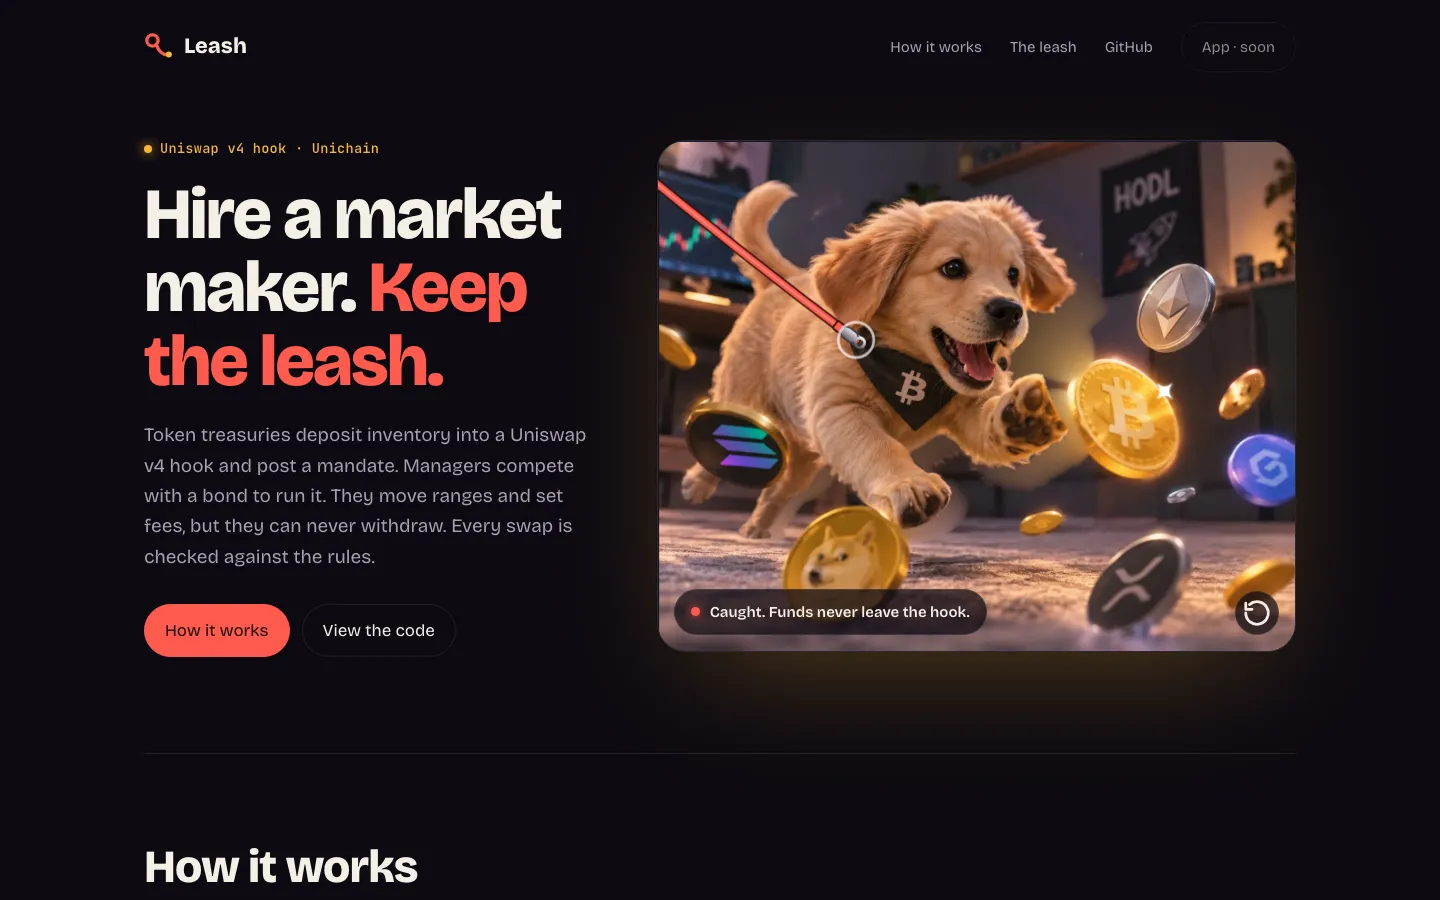
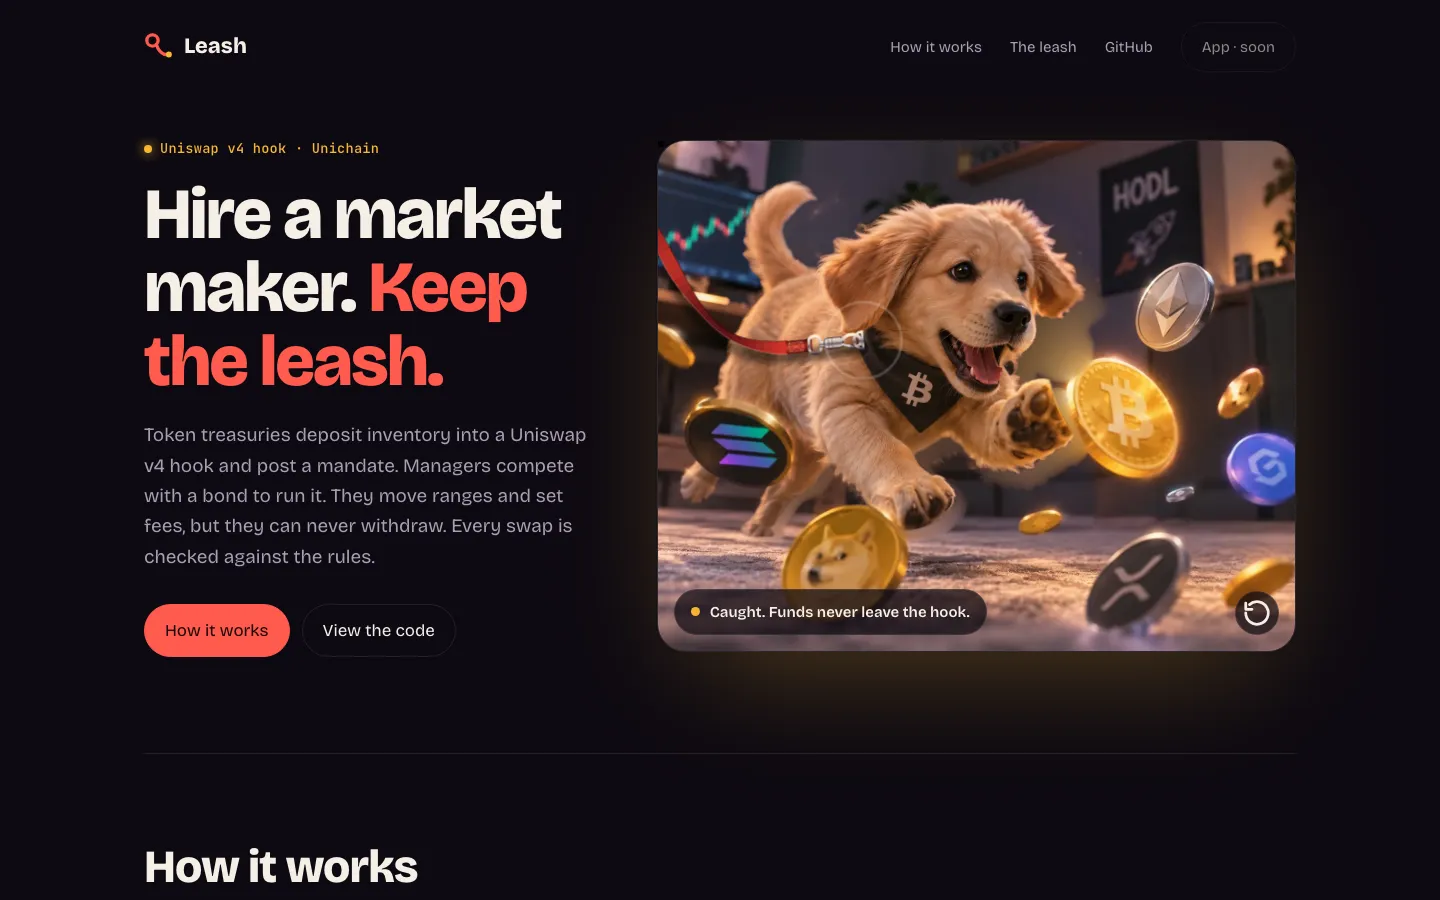
Make the hero leash physical and realistic
The leash is now a Verlet rope with fixed length, gravity and drag: it whips
on the throw, snaps taut at the lunge, then swings and hangs. Rendered as
twisting nylon webbing (narrows and darkens edge-on, lit by the room),
with a cast shadow and a bolt snap: box-X stitched strap end, swivel eye,
barrel and hook latching the bandana's D-ring. Fixed-step simulation keeps
replay and ?t= screenshots deterministic.

diff --git a/frontend/src/LeashScene.tsx b/frontend/src/LeashScene.tsx
@@ -1,18 +1,24 @@
 import { useEffect, useRef, useState } from 'react';
 import sceneUrl from './assets/scene.webp';
 import dogUrl from './assets/dog.webp';
+import { Rope, type Hold, type Point } from './rope';
 
-type Point = [number, number];
 type Pose = { r: number; x: number; y: number };
 
 // Image-space coordinates (the art is 1402×1122). Tune these if the art changes.
 const PIVOT: Point = [250, 860]; // hind feet: the dog leans around them
 const TAIL: Point = [282, 300]; // tail base
-const COLLAR: Point = [486, 448]; // where the clip lands on the bandana
-const HAND: Point = [-80, 30]; // the leash comes from off-frame, top left
+const COLLAR: Point = [486, 448]; // where the snap hook catches the bandana's D-ring
+const HAND: Point = [-80, 30]; // the leash is held off-frame, top left
 const CHASE: Pose = { r: 2.2, x: 16, y: -6 };
 const HELD: Pose = { r: -3.2, x: -16, y: 2 };
 const T = { throw: 1.4, snap: 2.2, settle: 3.6 }; // seconds
+
+// Leash build: a 30px strap (≈2.5cm at this scale) ending in a bolt snap drawn 104 units long at scale K.
+const STRAP = 30;
+const K = 1.6;
+const REACH = 104 * K; // strap end → D-ring
+const SEGS = 34; // strap links; the hardware is one more, rigid link
 
 const LINES: [at: number, text: string, held: boolean][] = [
   [0, 'A market maker chases every coin…', false],
@@ -30,6 +36,7 @@ const SPARKS: [number, number, number, number][] = [
 const clamp01 = (u: number) => Math.min(1, Math.max(0, u));
 const ease = (u: number) => (u = clamp01(u), u * u * (3 - 2 * u));
 const mix = (a: number, b: number, u: number) => a + (b - a) * u;
+const line = (ps: Point[]) => 'M' + ps.join('L');
 
 function pose(t: number): Pose {
   if (t < T.snap) { // run up and lunge at the coins
@@ -55,24 +62,88 @@ function place([px, py]: Point, p: Pose): Point {
   ];
 }
 
+// Where the leash's two ends are at time t: in the hand, then thrown, then clipped to the collar.
+function hold(t: number): Hold {
+  if (t < T.throw) return { head: HAND, tail: HAND }; // folded in the hand, off-frame
+  const collar = place(COLLAR, pose(t));
+  if (t >= T.snap) return { head: HAND, tail: collar };
+  const u = ease((t - T.throw) / (T.snap - T.throw)); // the snap hook arcs in
+  return { head: HAND, tail: [mix(HAND[0], collar[0], u), mix(HAND[1], collar[1], u) - Math.sin(Math.PI * u) * 160] };
+}
+
+// Just long enough to go taut at the peak of the lunge.
+const LENGTH = 1.02 * Math.hypot(...(place(COLLAR, CHASE).map((v, i) => v - HAND[i]) as Point));
+const LINKS = [...Array<number>(SEGS).fill((LENGTH - REACH) / SEGS), REACH];
+const folded = (): Point[] => LINKS.concat(0).map((_, i, all) => {
+  const along = (i / (all.length - 1)) * LENGTH;
+  return [HAND[0] + (along < LENGTH / 2 ? -5 : 5), HAND[1] + Math.min(along, LENGTH - along)];
+});
+
+// Nylon webbing colour for a strip whose face is turned `lit` (0 edge-on … 1 facing us) toward the light.
+function webbing(lit: number) {
+  const dark = [62, 12, 20], base = [214, 54, 42], spec = [255, 132, 110];
+  const c = dark.map((d, i) => mix(d, base[i], Math.min(lit / 0.85, 1)));
+  const s = clamp01((lit - 0.85) / 0.15) * 0.55;
+  return `rgb(${c.map((v, i) => Math.round(mix(v, spec[i], s))).join(',')})`;
+}
+
 export function LeashScene() {
   const svgRef = useRef<SVGSVGElement>(null);
   const worldRef = useRef<SVGGElement>(null);
   const dogRef = useRef<SVGGElement>(null);
   const tailRef = useRef<SVGImageElement>(null);
-  const ringRef = useRef<SVGCircleElement>(null);
   const leashRef = useRef<SVGGElement>(null);
+  const shadowRef = useRef<SVGPathElement>(null);
+  const strapRef = useRef<SVGGElement>(null);
   const clipRef = useRef<SVGGElement>(null);
+  const dogRingRef = useRef<SVGPathElement>(null);
+  const clipRingRef = useRef<SVGPathElement>(null);
   const flashRef = useRef<SVGCircleElement>(null);
   const replay = useRef(() => {});
-  const [line, setLine] = useState(0);
+  const [line_, setLine] = useState(0);
 
   // Per-frame updates write SVG attributes directly; React only re-renders when the caption changes.
   useEffect(() => {
-    const world = worldRef.current!, dog = dogRef.current!, tail = tailRef.current!, ring = ringRef.current!;
-    const leash = leashRef.current!, clip = clipRef.current!, flash = flashRef.current!;
-    const strands = leash.querySelectorAll('.strand');
+    const world = worldRef.current!, dog = dogRef.current!, tail = tailRef.current!;
+    const leash = leashRef.current!, shadow = shadowRef.current!, clip = clipRef.current!, flash = flashRef.current!;
+    const dogRing = dogRingRef.current!, clipRing = clipRingRef.current!;
+    const [base, quads, weaveA, weaveB, sheen, rim] = strapRef.current!.children as unknown as [
+      SVGPathElement, SVGGElement, SVGPathElement, SVGPathElement, SVGPathElement, SVGPathElement,
+    ];
+    const rope = new Rope(LINKS, folded);
     let shown = -1;
+
+    function drawLeash(t: number) {
+      const pts = rope.pts, strap = pts.slice(0, -1), n = strap.length;
+      const left: Point[] = [], right: Point[] = [], inA: Point[] = [], inB: Point[] = [], lit: number[] = [];
+      for (let i = 0; i < n; i++) {
+        const a = strap[Math.max(0, i - 1)], b = strap[Math.min(n - 1, i + 1)], p = strap[i];
+        const len = Math.hypot(b[0] - a[0], b[1] - a[1]) || 1;
+        const nx = -(b[1] - a[1]) / len, ny = (b[0] - a[0]) / len;
+        // One slow twist along the strap: edge-on it narrows and darkens, like real webbing.
+        const face = Math.cos(1.35 * Math.sin(Math.PI * 1.7 * (i / (n - 1)) + 0.6 + 0.35 * Math.sin(t * 0.9)));
+        const half = (STRAP / 2) * (0.22 + 0.78 * Math.abs(face));
+        const at = (o: number): Point => [p[0] + nx * half * o, p[1] + ny * half * o];
+        left.push(at(1)); right.push(at(-1)); inA.push(at(0.45)); inB.push(at(-0.45));
+        // The room is dim by the monitor (left) and warm toward the dog: light the strap to match.
+        const room = 0.68 + 0.32 * clamp01((p[0] + 80) / 650);
+        lit.push(Math.abs(face) * (face < 0 ? 0.85 : 1) * room);
+      }
+      Array.from(quads.children).forEach((q, i) => {
+        q.setAttribute('d', `M${left[i]}L${left[i + 1]}L${right[i + 1]}L${right[i]}Z`);
+        q.setAttribute('fill', webbing((lit[i] + lit[i + 1]) / 2));
+      });
+      base.setAttribute('d', line(strap));
+      weaveA.setAttribute('d', line(inA));
+      weaveB.setAttribute('d', line(inB));
+      sheen.setAttribute('d', line(left));
+      rim.setAttribute('d', line(right));
+      shadow.setAttribute('d', line(pts));
+
+      const [s0, s1] = [pts[pts.length - 2], pts[pts.length - 1]];
+      const angle = (Math.atan2(s1[1] - s0[1], s1[0] - s0[0]) * 180) / Math.PI;
+      clip.setAttribute('transform', `translate(${s0}) rotate(${angle})`);
+    }
 
     function render(t: number) {
       const p = pose(t);
@@ -80,26 +151,14 @@ export function LeashScene() {
       const fast = t < T.snap;
       tail.setAttribute('transform', `rotate(${Math.sin(t * (fast ? 20 : 8)) * (fast ? 9 : 6)} ${TAIL})`);
 
-      const collar = place(COLLAR, p);
-      let end: Point, sag: number;
-      if (t < T.snap) { // thrown: the clip arcs in from the hand
-        const u = ease((t - T.throw) / (T.snap - T.throw));
-        end = [mix(HAND[0], collar[0], u), mix(HAND[1], collar[1], u) - Math.sin(Math.PI * u) * 160];
-        sag = mix(260, 60, u);
-      } else { // taut on the yank, then a gentle slack that breathes with the dog
-        const s = t - T.snap;
-        end = collar;
-        sag = mix(6, 90, ease(s / 1.2)) + Math.sin(t * 3.4) * 8 * ease(s / 1.5);
-      }
-      const ctrl: Point = [(HAND[0] + end[0]) / 2, (HAND[1] + end[1]) / 2 + sag];
-      const d = `M${HAND} Q${ctrl} ${end}`;
-      strands.forEach((s) => s.setAttribute('d', d));
-      const angle = (Math.atan2(end[1] - ctrl[1], end[0] - ctrl[0]) * 180) / Math.PI;
-      clip.setAttribute('transform', `translate(${end}) rotate(${angle})`);
+      rope.advance(t, hold);
+      drawLeash(t);
+      const clipped = t >= T.snap;
       leash.setAttribute('visibility', t < T.throw ? 'hidden' : 'visible');
-      ring.setAttribute('visibility', t < T.snap ? 'hidden' : 'visible');
+      dogRing.setAttribute('visibility', clipped ? 'hidden' : 'visible');
+      clipRing.setAttribute('visibility', clipped ? 'visible' : 'hidden');
 
-      const s = t - T.snap; // snap flash and a short camera shake
+      const collar = place(COLLAR, p), s = t - T.snap; // snap flash and a short camera shake
       const f = s >= 0 && s < 0.5 ? s / 0.5 : 1;
       flash.setAttribute('r', String(12 + 90 * f));
       flash.setAttribute('cx', String(collar[0]));
@@ -131,7 +190,8 @@ export function LeashScene() {
     return () => { cancelAnimationFrame(raf); io.disconnect(); };
   }, []);
 
-  const [, caption, held] = LINES[line];
+  const [, caption, held] = LINES[line_];
+  const dRing = 'M104 -12A12 12 0 0 0 104 12Z'; // D-ring: straight edge on the collar, bow toward the hook
   return (
     <figure className="stage">
       <svg ref={svgRef} viewBox="0 0 1402 1122" role="img"
@@ -143,12 +203,17 @@ export function LeashScene() {
             <path clipRule="evenodd" d="M0 0H1402V1122H0Z M195 55H415V200L358 258L298 292L236 300L195 280Z" />
           </clipPath>
           <linearGradient id="metal" x1="0" y1="0" x2="0" y2="1">
-            <stop offset="0" stopColor="#f4f1ee" /><stop offset=".5" stopColor="#a49ea8" /><stop offset="1" stopColor="#5b5560" />
+            <stop offset="0" stopColor="#fff1dd" /><stop offset=".35" stopColor="#cbbab3" />
+            <stop offset=".55" stopColor="#6b5e69" /><stop offset=".8" stopColor="#d6c4bb" /><stop offset="1" stopColor="#3c313d" />
+          </linearGradient>
+          <linearGradient id="webbing" x1="0" y1="0" x2="0" y2="1">
+            <stop offset="0" stopColor="#5a100c" /><stop offset=".5" stopColor="#d8402f" /><stop offset="1" stopColor="#5a100c" />
           </linearGradient>
           <filter id="glow" x="-1" y="-1" width="3" height="3">
             <feGaussianBlur stdDeviation="4" result="b" />
             <feMerge><feMergeNode in="b" /><feMergeNode in="SourceGraphic" /></feMerge>
           </filter>
+          <filter id="soft" x="-10%" y="-10%" width="120%" height="120%"><feGaussianBlur stdDeviation="7" /></filter>
           <path id="spark" d="M0-22C2-6 6-2 22 0C6 2 2 6 0 22C-2 6-6 2-22 0C-6-2-2-6 0-22Z" />
         </defs>
 
@@ -157,7 +222,9 @@ export function LeashScene() {
           <g ref={dogRef}>
             <image ref={tailRef} href={dogUrl} width="1402" height="1122" clipPath="url(#tailClip)" />
             <image href={dogUrl} width="1402" height="1122" clipPath="url(#bodyClip)" />
-            <circle ref={ringRef} cx={COLLAR[0]} cy={COLLAR[1]} r="10" fill="none" stroke="url(#metal)" strokeWidth="5" visibility="hidden" />
+            {/* the bandana's D-ring, hanging until the hook catches it */}
+            <path ref={dogRingRef} d={dRing} fill="none" stroke="url(#metal)" strokeWidth="3.5"
+              transform={`translate(${COLLAR}) rotate(-90) scale(${K}) translate(-104 0)`} />
           </g>
           <g filter="url(#glow)" aria-hidden="true">
             {SPARKS.map(([x, y, k, delay]) => (
@@ -166,15 +233,33 @@ export function LeashScene() {
               </g>
             ))}
           </g>
-          <g ref={leashRef} visibility="hidden" fill="none" strokeLinecap="round">
-            <path className="strand" stroke="#2a0d0b" strokeWidth="22" />
-            <path className="strand" stroke="var(--leash)" strokeWidth="15" />
-            <path className="strand" stroke="#ffc2b8" strokeWidth="3" opacity=".55" />
+
+          <g ref={leashRef} visibility="hidden">
+            <path ref={shadowRef} fill="none" stroke="#000" strokeOpacity=".5" strokeWidth={STRAP}
+              strokeLinecap="round" strokeLinejoin="round" filter="url(#soft)" transform="translate(-4 20)" />
+            <g ref={strapRef} fill="none" strokeLinejoin="round">
+              <path stroke="#3a0a08" strokeWidth={STRAP * 0.5} />
+              <g>{Array.from({ length: SEGS }, (_, i) => <path key={i} />)}</g>
+              <path stroke="#2a0504" strokeOpacity=".2" strokeWidth="1.1" strokeDasharray="2.5 2.5" />
+              <path stroke="#2a0504" strokeOpacity=".2" strokeWidth="1.1" strokeDasharray="2.5 2.5" strokeDashoffset="2.5" />
+              <path stroke="#ffd9cc" strokeOpacity=".4" strokeWidth="1.6" />
+              <path stroke="#1c0302" strokeOpacity=".55" strokeWidth="1.8" />
+            </g>
+            {/* bolt snap: strap end folded and box-X stitched, swivel eye, barrel, hook and spring bolt */}
             <g ref={clipRef}>
-              <g transform="scale(1.3)">
-                <rect x="-44" y="-8" width="18" height="16" rx="3" fill="var(--leash)" stroke="#2a0d0b" strokeWidth="3" />
-                <rect x="-30" y="-10" width="32" height="20" rx="10" fill="url(#metal)" stroke="#3a3540" strokeWidth="2.5" />
-                <circle cx="8" r="8" stroke="url(#metal)" strokeWidth="5" />
+              <g transform={`scale(${K})`}>
+                <rect x="-2" y="-9" width="36" height="18" rx="2" fill="url(#webbing)" />
+                <rect x="24" y="-9.5" width="10" height="19" rx="2" fill="#000" opacity=".28" />
+                <path d="M3-6H21V6H3Z M3-6L21 6 M3 6L21-6" fill="none" stroke="#f6dccd" strokeOpacity=".65"
+                  strokeWidth="1" strokeDasharray="2 1.6" />
+                <rect x="30" y="-12" width="16" height="24" rx="7" fill="none" stroke="url(#metal)" strokeWidth="4" />
+                <rect x="45" y="-4" width="7" height="8" rx="2" fill="url(#metal)" />
+                <rect x="51" y="-7.5" width="26" height="15" rx="5" fill="url(#metal)" stroke="#2b2730" strokeWidth="1.2" />
+                <path d="M57-7V7 M62-7V7" stroke="#2b2730" strokeOpacity=".45" strokeWidth="1" />
+                <path d="M77-4C86-13 101-10 101 0C101 9 90 12 85 6" fill="none" stroke="url(#metal)"
+                  strokeWidth="4.5" strokeLinecap="round" />
+                <path d="M76 3L85 6" stroke="#d8d3dc" strokeWidth="2.6" strokeLinecap="round" />
+                <path ref={clipRingRef} d={dRing} fill="none" stroke="url(#metal)" strokeWidth="3.5" visibility="hidden" />
               </g>
             </g>
           </g>

diff --git a/frontend/src/rope.ts b/frontend/src/rope.ts
@@ -1,0 +1,71 @@
+export type Point = [number, number];
+export type Hold = { head: Point; tail: Point };
+
+const DT = 1 / 120; // fixed step: the same timeline always gives the same shape (replay, ?t= screenshots)
+const GRAVITY = 5200; // image px/s²
+const DAMPING = 0.99; // per step; webbing is light and draggy
+const ITERATIONS = 30;
+
+/**
+ * A Verlet rope: point masses joined by links of fixed length. Both ends are held
+ * (by the hand and by whatever the clip is attached to); the rest swings freely.
+ */
+export class Rope {
+  pts: Point[] = [];
+  private prev: Point[] = [];
+  private time = 0;
+
+  constructor(private readonly links: number[], private readonly rest: () => Point[]) {
+    this.reset();
+  }
+
+  private reset() {
+    this.pts = this.rest();
+    this.prev = this.pts.map(([x, y]) => [x, y]);
+    this.time = 0;
+  }
+
+  /** Simulates up to `to` seconds; `hold(t)` says where both ends are at time t. */
+  advance(to: number, hold: (t: number) => Hold) {
+    if (to < this.time) this.reset();
+    for (let n = 0; this.time + DT <= to; n++) {
+      // ponytail: after a long pause (hidden tab) jump ahead instead of replaying minutes of physics
+      if (n === 1200) { this.time = to; break; }
+      this.step(hold(this.time));
+      this.time += DT;
+    }
+  }
+
+  private step({ head, tail }: Hold) {
+    const { pts, prev, links } = this, last = pts.length - 1;
+    for (let i = 0; i <= last; i++) {
+      const p = pts[i], q = prev[i];
+      const vx = (p[0] - q[0]) * DAMPING, vy = (p[1] - q[1]) * DAMPING;
+      q[0] = p[0]; q[1] = p[1];
+      p[0] += vx; p[1] += vy + GRAVITY * DT * DT;
+    }
+    for (let k = 0; k < ITERATIONS; k++) {
+      pin(pts[0], head);
+      pin(pts[last], tail);
+      for (let i = 0; i < last; i++) relax(pts[i], pts[i + 1], links[i], 0.5);
+      // Webbing resists folding sharply: keep every other point at least ~90% of the straight distance apart.
+      for (let i = 0; i < last - 2; i++) relax(pts[i], pts[i + 2], (links[i] + links[i + 1]) * 0.9, 0.1, true);
+    }
+    pin(pts[0], head);
+    pin(pts[last], tail);
+  }
+}
+
+function pin(p: Point, at: Point) {
+  p[0] = at[0];
+  p[1] = at[1];
+}
+
+/** Moves a and b toward distance `len`; `pushOnly` only separates points that are too close. */
+function relax(a: Point, b: Point, len: number, k: number, pushOnly = false) {
+  const dx = b[0] - a[0], dy = b[1] - a[1], d = Math.hypot(dx, dy) || 1e-6;
+  if (pushOnly && d >= len) return;
+  const f = ((d - len) / d) * k;
+  a[0] += dx * f; a[1] += dy * f;
+  b[0] -= dx * f; b[1] -= dy * f;
+}
